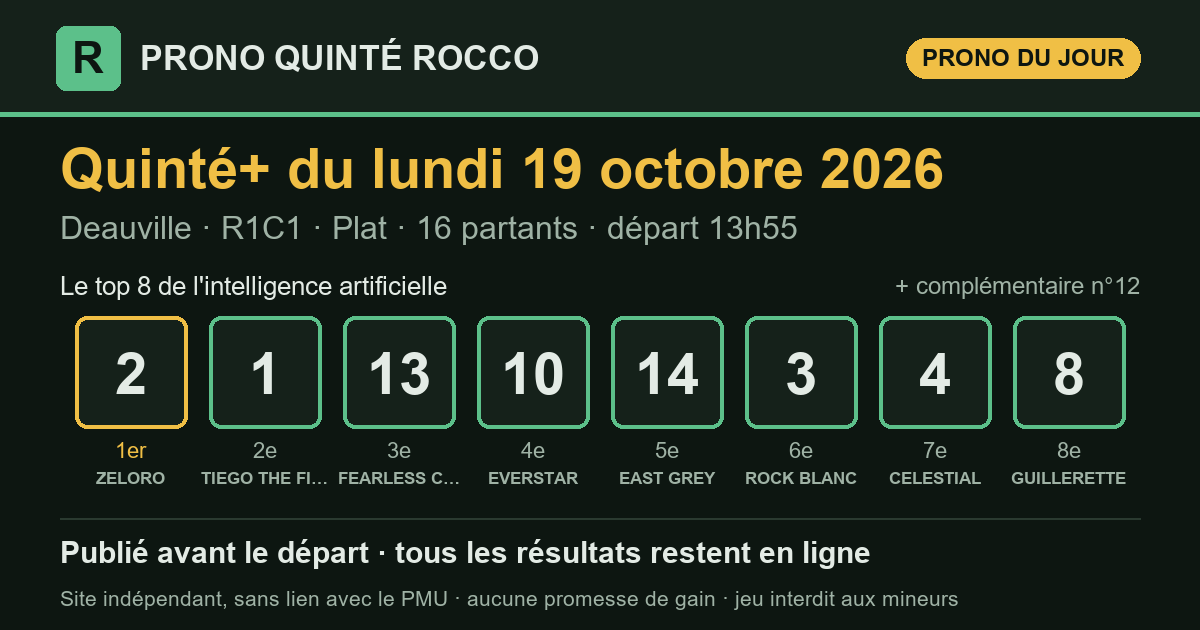
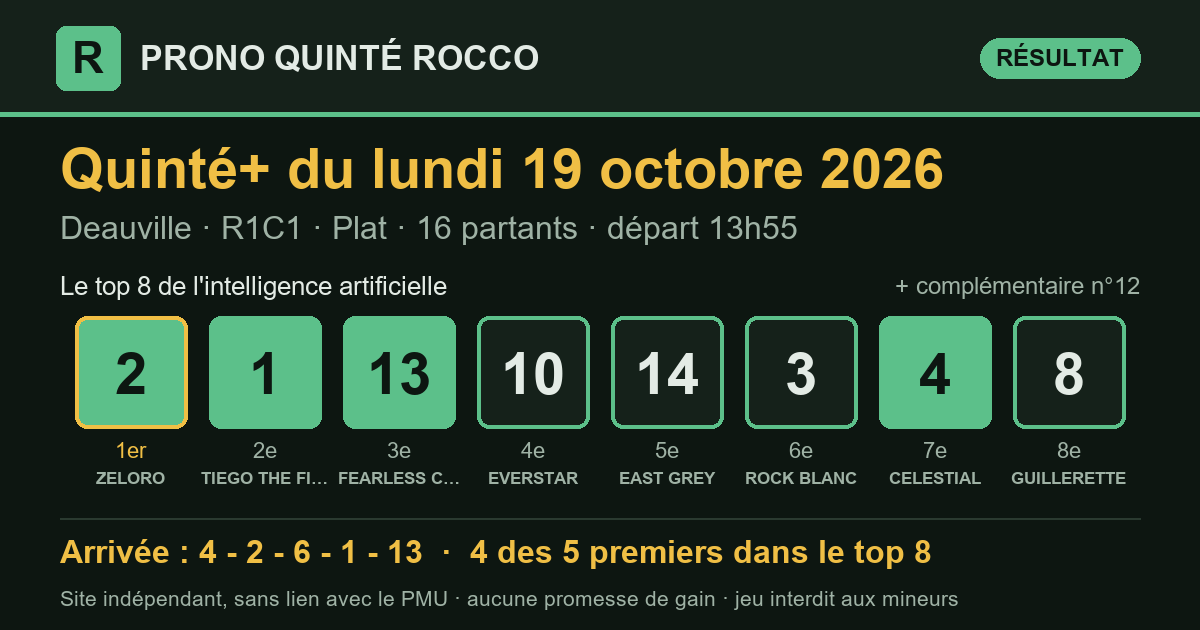
Prono Quinté+ 2026-10-19 Deauville R1C1 — publié le 19/10/2026 14:09 (heure de Paris)

diff --git a/index.html b/index.html
@@ -16,7 +16,7 @@
 <meta property="og:title" content="Pronostic Quinté+ du lundi 19 octobre 2026 — Prono Quinté Rocco">
 <meta property="og:description" content="Le pronostic du Quinté+ par intelligence artificielle, publié avant le départ, avec tous les résultats et le rendement réel.">
 <meta property="og:url" content="https://prono-quinte-rocco.fr/">
-<meta property="og:image" content="https://prono-quinte-rocco.fr/partage/2026-10-19.png?v=54a452ff">
+<meta property="og:image" content="https://prono-quinte-rocco.fr/partage/2026-10-19.png?v=0cd5f923">
 <meta property="og:image:type" content="image/png">
 <meta property="og:image:width" content="1200">
 <meta property="og:image:height" content="630">
@@ -31,15 +31,15 @@
 </header>
 <main>
 <section class="une" aria-labelledby="t-jour">
-  <p class="surtitre">Quinté+ du jour</p>
+  <p class="surtitre">Dernier Quinté+</p>
   <h1 id="t-jour">Le prono du Quinté+, résultats compris</h1>
   <p class="chapo">Chaque matin, une intelligence artificielle classe les partants du
   Quinté+. Le classement est publié avant le départ, puis comparé à l'arrivée
   officielle. Tous les résultats restent en ligne, les bons comme les mauvais.</p>
   <article class="carte-course">
-  <div class="tete"><h2>Lundi 19 octobre 2026</h2><span class="etat attente">arrivée en attente</span></div>
+  <div class="tete"><h2>Lundi 19 octobre 2026</h2><span class="etat place">4 des 5 premiers dans le top 8</span></div>
   <p class="meta">Deauville · <strong>R1C1</strong> · Plat · 16 partants · lisibilité <span class="note" aria-label="note 2 sur 5"><i class="on"></i><i class="on"></i><i class=""></i><i class=""></i><i class=""></i></span> 2/5</p>
-  <ol class="partants" aria-label="Classement du prono"><li><span class="rang">1<sup>er</sup></span><span class="tapis ">2</span><span class="nom">ZELORO</span></li><li><span class="rang">2<sup>e</sup></span><span class="tapis ">1</span><span class="nom">TIEGO THE FIRST</span></li><li><span class="rang">3<sup>e</sup></span><span class="tapis ">13</span><span class="nom">FEARLESS CHEETAH</span></li><li><span class="rang">4<sup>e</sup></span><span class="tapis ">10</span><span class="nom">EVERSTAR</span></li><li><span class="rang">5<sup>e</sup></span><span class="tapis ">14</span><span class="nom">EAST GREY</span></li><li><span class="rang">6<sup>e</sup></span><span class="tapis ">3</span><span class="nom">ROCK BLANC</span></li><li><span class="rang">7<sup>e</sup></span><span class="tapis ">4</span><span class="nom">CELESTIAL</span></li><li><span class="rang">8<sup>e</sup></span><span class="tapis ">8</span><span class="nom">GUILLERETTE</span></li><li><span class="rang">compl.</span><span class="tapis creux">12</span><span class="nom">ALLURRE</span></li></ol>
+  <ol class="partants" aria-label="Classement du prono"><li><span class="rang">1<sup>er</sup></span><span class="tapis plein">2</span><span class="nom">ZELORO</span></li><li><span class="rang">2<sup>e</sup></span><span class="tapis plein">1</span><span class="nom">TIEGO THE FIRST</span></li><li><span class="rang">3<sup>e</sup></span><span class="tapis plein">13</span><span class="nom">FEARLESS CHEETAH</span></li><li><span class="rang">4<sup>e</sup></span><span class="tapis ">10</span><span class="nom">EVERSTAR</span></li><li><span class="rang">5<sup>e</sup></span><span class="tapis ">14</span><span class="nom">EAST GREY</span></li><li><span class="rang">6<sup>e</sup></span><span class="tapis ">3</span><span class="nom">ROCK BLANC</span></li><li><span class="rang">7<sup>e</sup></span><span class="tapis plein">4</span><span class="nom">CELESTIAL</span></li><li><span class="rang">8<sup>e</sup></span><span class="tapis ">8</span><span class="nom">GUILLERETTE</span></li><li><span class="rang">compl.</span><span class="tapis creux">12</span><span class="nom">ALLURRE</span></li></ol>
   <div class="pied-carte"><span>Analysé le 19/10 à 11:46 · en ligne le 19/10 à 11:49 · départ à 13:55 (heure de Paris)</span><span><a href="quinte/2026-10-19.html">Détail de la course</a></span></div>
 </article>
   <div class="legende"><span><span class="tapis plein petit">4</span> numéro dans les 5 premiers</span>
@@ -62,7 +62,7 @@
 </section>
 <section class="bilan" aria-labelledby="t-bilan">
   <h2 id="t-bilan">Le bilan depuis le 8 septembre 2026</h2>
-  <div class="tableau chiffres"><div class="case"><span class="gros ">75 %</span><span class="lib">des arrivants trouvés dans le top 8</span><span class="ref">un top 8 tiré au hasard : 51 %</span></div><div class="case"><span class="gros ">88 %</span><span class="lib">des gagnants présents dans le top 8</span><span class="ref"></span></div><div class="case"><span class="gros ">50 %</span><span class="lib">1er du prono placé</span><span class="ref">sur 40 Quintés</span></div><div class="case"><span class="gros perte">0,93 €</span><span class="lib">rendus pour 1 € joué placé sur le 1er</span><span class="ref">rapports officiels PMU</span></div><div class="case"><span class="gros perte">0,53 €</span><span class="lib">rendus pour 1 € joué en Quinté+ combiné top 8</span><span class="ref">56 combinaisons, rapports PMU.fr, sur 40 Quintés</span></div></div>
+  <div class="tableau chiffres"><div class="case"><span class="gros ">75 %</span><span class="lib">des arrivants trouvés dans le top 8</span><span class="ref">un top 8 tiré au hasard : 51 %</span></div><div class="case"><span class="gros ">88 %</span><span class="lib">des gagnants présents dans le top 8</span><span class="ref"></span></div><div class="case"><span class="gros ">50 %</span><span class="lib">1er du prono placé</span><span class="ref">sur 40 Quintés</span></div><div class="case"><span class="gros perte">0,93 €</span><span class="lib">rendus pour 1 € joué placé sur le 1er</span><span class="ref">rapports officiels PMU</span></div><div class="case"><span class="gros perte">0,52 €</span><span class="lib">rendus pour 1 € joué en Quinté+ combiné top 8</span><span class="ref">56 combinaisons, rapports PMU.fr, sur 41 Quintés</span></div></div>
   <p class="avertissement">Moins de 1 € rendu pour 1 € joué : suivre ce prono à la lettre fait <strong>perdre de l'argent</strong> sur cette période. Il sert à analyser une course, pas à promettre un gain.</p>
 </section>
 </main>

diff --git a/partants.html b/partants.html
@@ -35,24 +35,24 @@
     <p class="fiche-depart">Départ <b>13:55</b> <span>heure de Paris</span></p>
   </div>
   <p class="surtitre">Les pronostics ailleurs sur le web</p>
-  <div class="liens"><a class="lien-ext" href="https://www.turfoo.fr/programmes-courses/261019/reunion1-deauville/course1-prix-de-la-foret-de-lyons/pronostics-presse/" rel="noopener" target="_blank"><b>Les pronostics de la presse →</b><span>sur Turfoo (site extérieur)</span></a><a class="lien-ext" href="https://www.geny.com/programme/2026-10-19" rel="noopener" target="_blank"><b>Partants et pronostics →</b><span>programme du jour sur Geny (site extérieur)</span></a></div>
+  <div class="liens"><a class="lien-ext" href="https://www.turfoo.fr/programmes-courses/261019/" rel="noopener" target="_blank"><b>Les pronostics de la presse →</b><span>sur Turfoo (site extérieur)</span></a><a class="lien-ext" href="https://www.geny.com/programme/2026-10-19" rel="noopener" target="_blank"><b>Partants et pronostics →</b><span>programme du jour sur Geny (site extérieur)</span></a></div>
   <div class="liste-boite"><table class="liste-partants">
     <thead><tr><th>N°</th><th>Cheval</th><th class="cote"><span class="long">Cote du matin</span><span class="court">Cote</span></th>
     <th class="ia"><span class="long">Prono IA</span><span class="court">IA</span></th></tr></thead>
     <tbody><tr>
   <td><span class="tapis petit">1</span></td>
   <td><span class="cheval">TIEGO THE FIRST</span><span class="sous">M.BARZALONA · P&amp;J.BRANDT (S)</span></td>
-  <td class="cote num">8,7</td>
+  <td class="cote num">8,4</td>
   <td class="ia"><span class="etat place">2<sup>e</sup></span></td>
 </tr><tr>
   <td><span class="tapis petit">2</span></td>
   <td><span class="cheval">ZELORO</span><span class="sous">M.GUYON · P&amp;J.BRANDT (S)</span></td>
-  <td class="cote num">3,6</td>
+  <td class="cote num">3,5</td>
   <td class="ia"><span class="etat place">1<sup>er</sup></span></td>
 </tr><tr>
   <td><span class="tapis petit">3</span></td>
   <td><span class="cheval">ROCK BLANC</span><span class="sous">I.MENDIZABAL · M.DELZANGLES</span></td>
-  <td class="cote num">14,0</td>
+  <td class="cote num">15,0</td>
   <td class="ia"><span class="etat place">6<sup>e</sup></span></td>
 </tr><tr>
   <td><span class="tapis petit">4</span></td>
@@ -62,17 +62,17 @@
 </tr><tr>
   <td><span class="tapis petit">5</span></td>
   <td><span class="cheval">AL MAX</span><span class="sous">C.DEMURO · P.DECOUZ (S)</span></td>
-  <td class="cote num">23,0</td>
+  <td class="cote num">24,0</td>
   <td class="ia">—</td>
 </tr><tr>
   <td><span class="tapis petit">6</span></td>
   <td><span class="cheval">ROMAN FORUM</span><span class="sous">T.BACHELOT · CH.GOURDAIN (S)</span></td>
-  <td class="cote num">34,0</td>
+  <td class="cote num">35,0</td>
   <td class="ia">—</td>
 </tr><tr>
   <td><span class="tapis petit">7</span></td>
   <td><span class="cheval">WAKABURN</span><span class="sous">A.LEMAITRE · M.KREBS (S)</span></td>
-  <td class="cote num">42,0</td>
+  <td class="cote num">40,0</td>
   <td class="ia">—</td>
 </tr><tr>
   <td><span class="tapis petit">8</span></td>
@@ -82,27 +82,27 @@
 </tr><tr>
   <td><span class="tapis petit">9</span></td>
   <td><span class="cheval">WEDGEWOOD PEARL</span><span class="sous">A.MOLINS · P.CHEVIGNY DE</span></td>
-  <td class="cote num">35,0</td>
+  <td class="cote num">36,0</td>
   <td class="ia">—</td>
 </tr><tr>
   <td><span class="tapis petit">10</span></td>
   <td><span class="cheval">EVERSTAR</span><span class="sous">M.GRANDIN · L.GADBIN (S)</span></td>
-  <td class="cote num">11,0</td>
+  <td class="cote num">10,0</td>
   <td class="ia"><span class="etat place">4<sup>e</sup></span></td>
 </tr><tr>
   <td><span class="tapis petit">11</span></td>
   <td><span class="cheval">NOLITO</span><span class="sous">T.PICCONE · MME S.GAVILAN</span></td>
-  <td class="cote num">29,0</td>
+  <td class="cote num">26,0</td>
   <td class="ia">—</td>
 </tr><tr>
   <td><span class="tapis petit">12</span></td>
   <td><span class="cheval">ALLURRE</span><span class="sous">D.PROVOST · M.CESANDRI (S)</span></td>
-  <td class="cote num">23,0</td>
+  <td class="cote num">24,0</td>
   <td class="ia"><span class="etat place">compl.</span></td>
 </tr><tr>
   <td><span class="tapis petit">13</span></td>
   <td><span class="cheval">FEARLESS CHEETAH</span><span class="sous">S.PASQUIER · F.BRESSON (S)</span></td>
-  <td class="cote num">7,5</td>
+  <td class="cote num">8,0</td>
   <td class="ia"><span class="etat place">3<sup>e</sup></span></td>
 </tr><tr>
   <td><span class="tapis petit">14</span></td>
@@ -112,7 +112,7 @@
 </tr><tr>
   <td><span class="tapis petit">15</span></td>
   <td><span class="cheval">SENORITO</span><span class="sous">R.MANGIONE · N.PERRET (S)</span></td>
-  <td class="cote num">23,0</td>
+  <td class="cote num">24,0</td>
   <td class="ia">—</td>
 </tr><tr>
   <td><span class="tapis petit">16</span></td>
@@ -122,7 +122,7 @@
 </tr></tbody>
   </table></div>
   <p class="meta">Le rang du prono IA est celui publié sur ce site. Sous chaque cheval : jockey · entraîneur. Partants et cotes : programme
-  officiel du PMU, lu le 19/10 à 11:49 (heure de Paris). NP = non-partant.</p>
+  officiel du PMU, lu le 19/10 à 14:09 (heure de Paris). NP = non-partant.</p>
 </section>
 </main>
 <footer class="pied">

diff --git a/quinte/2026-10-19.html b/quinte/2026-10-19.html
@@ -16,7 +16,7 @@
 <meta property="og:title" content="Pronostic Quinté+ du lundi 19 octobre 2026 à Deauville — Prono Quinté Rocco">
 <meta property="og:description" content="Prono Quinté+ du lundi 19 octobre 2026 (Deauville) : top 8, arrivée officielle et rapports PMU.fr.">
 <meta property="og:url" content="https://prono-quinte-rocco.fr/quinte/2026-10-19.html">
-<meta property="og:image" content="https://prono-quinte-rocco.fr/partage/2026-10-19.png?v=54a452ff">
+<meta property="og:image" content="https://prono-quinte-rocco.fr/partage/2026-10-19.png?v=0cd5f923">
 <meta property="og:image:type" content="image/png">
 <meta property="og:image:width" content="1200">
 <meta property="og:image:height" content="630">
@@ -35,11 +35,19 @@
   <h1>Pronostic Quinté+ du lundi 19 octobre 2026</h1>
   <p class="chapo">Deauville · R1C1 · Plat · 16 partants</p>
   <article class="carte-course">
-  <div class="tete"><h2>Le prono : top 8 et complémentaire</h2><span class="etat attente">arrivée en attente</span></div>
+  <div class="tete"><h2>Le prono : top 8 et complémentaire</h2><span class="etat place">4 des 5 premiers dans le top 8</span></div>
   <p class="meta">Deauville · <strong>R1C1</strong> · Plat · 16 partants · lisibilité <span class="note" aria-label="note 2 sur 5"><i class="on"></i><i class="on"></i><i class=""></i><i class=""></i><i class=""></i></span> 2/5</p>
-  <ol class="partants" aria-label="Classement du prono"><li><span class="rang">1<sup>er</sup></span><span class="tapis ">2</span><span class="nom">ZELORO</span></li><li><span class="rang">2<sup>e</sup></span><span class="tapis ">1</span><span class="nom">TIEGO THE FIRST</span></li><li><span class="rang">3<sup>e</sup></span><span class="tapis ">13</span><span class="nom">FEARLESS CHEETAH</span></li><li><span class="rang">4<sup>e</sup></span><span class="tapis ">10</span><span class="nom">EVERSTAR</span></li><li><span class="rang">5<sup>e</sup></span><span class="tapis ">14</span><span class="nom">EAST GREY</span></li><li><span class="rang">6<sup>e</sup></span><span class="tapis ">3</span><span class="nom">ROCK BLANC</span></li><li><span class="rang">7<sup>e</sup></span><span class="tapis ">4</span><span class="nom">CELESTIAL</span></li><li><span class="rang">8<sup>e</sup></span><span class="tapis ">8</span><span class="nom">GUILLERETTE</span></li><li><span class="rang">compl.</span><span class="tapis creux">12</span><span class="nom">ALLURRE</span></li></ol>
+  <ol class="partants" aria-label="Classement du prono"><li><span class="rang">1<sup>er</sup></span><span class="tapis plein">2</span><span class="nom">ZELORO</span></li><li><span class="rang">2<sup>e</sup></span><span class="tapis plein">1</span><span class="nom">TIEGO THE FIRST</span></li><li><span class="rang">3<sup>e</sup></span><span class="tapis plein">13</span><span class="nom">FEARLESS CHEETAH</span></li><li><span class="rang">4<sup>e</sup></span><span class="tapis ">10</span><span class="nom">EVERSTAR</span></li><li><span class="rang">5<sup>e</sup></span><span class="tapis ">14</span><span class="nom">EAST GREY</span></li><li><span class="rang">6<sup>e</sup></span><span class="tapis ">3</span><span class="nom">ROCK BLANC</span></li><li><span class="rang">7<sup>e</sup></span><span class="tapis plein">4</span><span class="nom">CELESTIAL</span></li><li><span class="rang">8<sup>e</sup></span><span class="tapis ">8</span><span class="nom">GUILLERETTE</span></li><li><span class="rang">compl.</span><span class="tapis creux">12</span><span class="nom">ALLURRE</span></li></ol>
   <div class="pied-carte"><span>Analysé le 19/10 à 11:46 · en ligne le 19/10 à 11:49 · départ à 13:55 (heure de Paris)</span><span></span></div>
 </article>
+<section class="carte-course" aria-labelledby="t-arr">
+  <div class="tete"><h2 id="t-arr">Arrivée officielle</h2></div>
+  <div class="rangee"><span class="tapis plein" title="1er">4</span><span class="tapis plein" title="2e">2</span><span class="tapis creux" title="3e">6</span><span class="tapis plein" title="4e">1</span><span class="tapis plein" title="5e">13</span></div>
+  <div class="deux">
+    <div><h3>Ce qu'aurait rendu le prono</h3><dl class="kv"><dt>1 € placé sur le 1er (n°2)</dt><dd>rapport manquant</dd><dt>1 € gagnant sur le 1er</dt><dd>rapport manquant</dd><dt>Quinté+ combiné top 8 (mise 112 €)</dt><dd>23,20 €</dd><dt>dont</dt><dd>Bonus 4sur5 × 4</dd></dl></div>
+    <div><h3>Rapports officiels</h3><dl class="kv"><dt>e-Quinté+ Désordre (2 €)</dt><dd>344,40 €</dd><dt>e-Bonus 4sur5 (2 €)</dt><dd>5,80 €</dd><dt>e-Bonus 3 (2 €)</dt><dd>5,00 €</dd></dl></div>
+  </div>
+</section>
 </section>
 </main>
 <footer class="pied">

diff --git a/resultats.html b/resultats.html
@@ -39,8 +39,8 @@
     <tbody><tr>
   <td class="c-date"><a href="quinte/2026-10-19.html">19/10</a></td>
   <td class="c-course">Deauville<br><span class="meta">R1C1 · Plat</span></td>
-  <td data-label="Top 8 du prono"><div class="rangee"><span class="tapis petit">2</span><span class="tapis petit">1</span><span class="tapis petit">13</span><span class="tapis petit">10</span><span class="tapis petit">14</span><span class="tapis petit">3</span><span class="tapis petit">4</span><span class="tapis petit">8</span></div></td><td data-label="Arrivée"><span class="etat attente">en attente</span></td>
-  <td class="num" data-label="Trouvés">—</td><td data-label="1er du prono"><span class="etat attente">—</span></td><td class="mont" data-label="Quinté+ top 8 (mise 112 €)">—</td>
+  <td data-label="Top 8 du prono"><div class="rangee"><span class="tapis plein petit">2</span><span class="tapis plein petit">1</span><span class="tapis plein petit">13</span><span class="tapis petit">10</span><span class="tapis petit">14</span><span class="tapis petit">3</span><span class="tapis plein petit">4</span><span class="tapis petit">8</span></div></td><td data-label="Arrivée"><div class="rangee"><span class="tapis plein petit" title="1er">4</span><span class="tapis plein petit" title="2e">2</span><span class="tapis creux petit" title="3e">6</span><span class="tapis plein petit" title="4e">1</span><span class="tapis plein petit" title="5e">13</span></div></td>
+  <td class="num" data-label="Trouvés">4/5</td><td data-label="1er du prono"><span class="etat place">placé</span></td><td class="mont perte" data-label="Quinté+ top 8 (mise 112 €)">23,20 €</td>
 </tr><tr>
   <td class="c-date"><a href="quinte/2026-10-18.html">18/10</a></td>
   <td class="c-course">ParisLongchamp<br><span class="meta">R1C3 · Plat</span></td>
@@ -246,7 +246,7 @@
 </section>
 <section class="bilan" aria-labelledby="t-bilan">
   <h2 id="t-bilan">Le bilan depuis le 8 septembre 2026</h2>
-  <div class="tableau chiffres"><div class="case"><span class="gros ">75 %</span><span class="lib">des arrivants trouvés dans le top 8</span><span class="ref">un top 8 tiré au hasard : 51 %</span></div><div class="case"><span class="gros ">88 %</span><span class="lib">des gagnants présents dans le top 8</span><span class="ref"></span></div><div class="case"><span class="gros ">50 %</span><span class="lib">1er du prono placé</span><span class="ref">sur 40 Quintés</span></div><div class="case"><span class="gros perte">0,93 €</span><span class="lib">rendus pour 1 € joué placé sur le 1er</span><span class="ref">rapports officiels PMU</span></div><div class="case"><span class="gros perte">0,53 €</span><span class="lib">rendus pour 1 € joué en Quinté+ combiné top 8</span><span class="ref">56 combinaisons, rapports PMU.fr, sur 40 Quintés</span></div></div>
+  <div class="tableau chiffres"><div class="case"><span class="gros ">75 %</span><span class="lib">des arrivants trouvés dans le top 8</span><span class="ref">un top 8 tiré au hasard : 51 %</span></div><div class="case"><span class="gros ">88 %</span><span class="lib">des gagnants présents dans le top 8</span><span class="ref"></span></div><div class="case"><span class="gros ">50 %</span><span class="lib">1er du prono placé</span><span class="ref">sur 40 Quintés</span></div><div class="case"><span class="gros perte">0,93 €</span><span class="lib">rendus pour 1 € joué placé sur le 1er</span><span class="ref">rapports officiels PMU</span></div><div class="case"><span class="gros perte">0,52 €</span><span class="lib">rendus pour 1 € joué en Quinté+ combiné top 8</span><span class="ref">56 combinaisons, rapports PMU.fr, sur 41 Quintés</span></div></div>
   <p class="avertissement">Moins de 1 € rendu pour 1 € joué : suivre ce prono à la lettre fait <strong>perdre de l'argent</strong> sur cette période. Il sert à analyser une course, pas à promettre un gain.</p>
 </section>
 </main>
